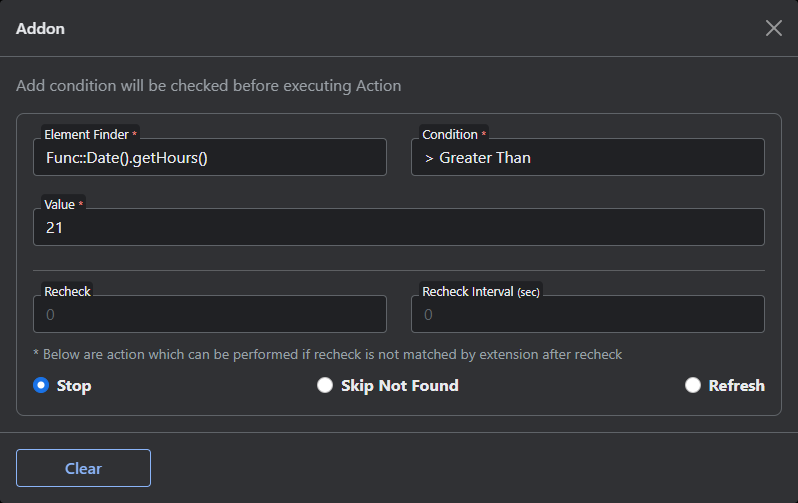
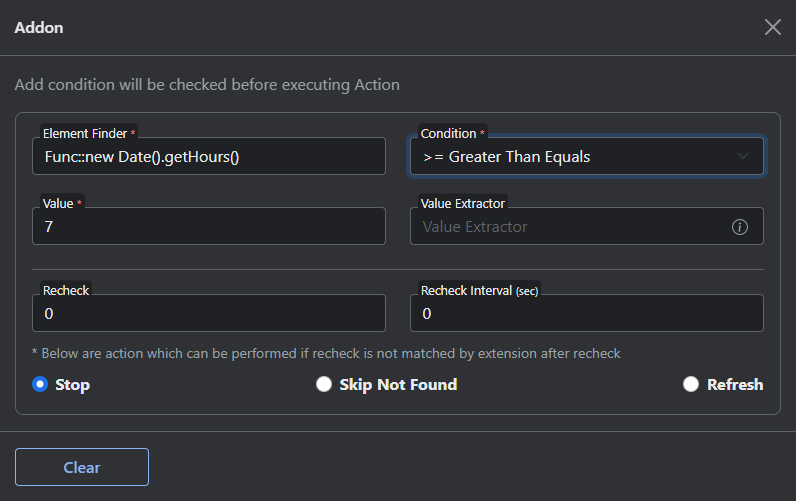
Added Action condition docs

diff --git a/content/docs/3.x/addon/element-finder.md b/content/docs/3.x/addon/element-finder.md
@@ -15,16 +15,44 @@ Follow below steps to get XPath quickly
 4. Thats it you have your XPath of that element now.
 {{</callout>}}
 
-### Check Time
-Now its possible you can check or compare with `date` and `time` and make the action work accordingly. All you have to do is instead of Element finder try adding `Func::Date().getHours()` to get the system current hour and it will be in 24 hours. now add condition greater than less than. which ever condition you want and in value field add hour. and under Recheck add SKIP if not matched.
+### Check browser default functions
+Now its possible you can check or compare with `date` and `time` and make the [Action]({{<docsref "/action/overview">}}) work accordingly. All you have to do is instead of Element finder try adding `Func::new Date().getHours()` to get the system current hour and it will be in 24 hours. now add condition greater than less than. which ever condition you want and in value field add hour. and under Recheck add SKIP if not matched.
 {{<img addon-func.png>}}
 
+<table class="table">
+  <thead>
+    <tr>
+      <th scope="col">Func::</th>
+      <th scope="col">Result</th>
+    </tr>
+  </thead>
+  <tbody>
+    <tr>
+      <th scope="col">new Date.getHours()</th>
+      <td>It will return current browser hours. There are other `Date` functions also reference link <a href="https://developer.mozilla.org/en-US/docs/Web/JavaScript/Reference/Global_Objects/Date" target="_blank" rel="noopener">Date</a></td>
+    </tr>
+    <tr>
+      <th scope="col">location.href</th>
+      <td>It will return current browser URL. There are other `location` functions also reference link <a href="https://developer.mozilla.org/en-US/docs/Web/API/Location" target="_blank" rel="noopener">Location</a></td>
+    </tr>
+    <tr>
+      <th scope="col">Other</td>
+      <td>Currently we have not tested all functions but will test and keep updating this list.</td>
+    </tr>
+  </tbody>
+</table>
+
+
 {{<callout info>}}
-There are other `Date` functions also which you can used other then `getHours()` reference link [Date](https://developer.mozilla.org/en-US/docs/Web/JavaScript/Reference/Global_Objects/Date)
+ This functionality is currently available at addon level only. Trying same feature for [Action]({{<docsref "/action/overview">}}) elementFinder will result in error.
 {{</callout>}}
 
 {{<callout danger>}}
- This functionality is currently available at addon level only. Trying same feature for action elementFinder will result in error.
+#### Func methods
+
+One important warning in advance: Malicious scripts can violate your privacy and act on your behalf!
+- You should create script own. for simpler functionality like calling a function and all.
+- If you not sure how to what all functions are available then You should only run scripts from sources you trust.
 {{</callout>}}
 
 ### Get Element By Id
@@ -52,7 +80,7 @@ Only single element get selected. If there are two element within page with same
 ### Get Elements By ClassName
 If an element tag is having `class="class-1 class-2 class-3"` attribute on it you can simply make use of `ClassName::class-1 class-2 class-3` to target that element.
 
-More than one element get selected. If there are two element within page with same class name both will be selected and action will be performed on both elements.
+More than one element get selected. If there are two element within page with same class name both will be selected and [Action]({{<docsref "/action/overview">}}) will be performed on both elements.
 
 {{<callout info>}}
  Referring below html section
@@ -74,7 +102,7 @@ More than one element get selected. If there are two element within page with sa
 ### Get Elements By Name
 If an element tag is having `name="nameOfElement"` attribute on it you can simply make use of `Name::nameOfElement` to target that element.
 
-More than one element get selected. If there are two element within page with same name both will be selected and action will be performed on both elements.
+More than one element get selected. If there are two element within page with same name both will be selected and [Action]({{<docsref "/action/overview">}}) will be performed on both elements.
 
 {{<callout info>}}
 Referring below html section
@@ -95,7 +123,7 @@ Referring below html section
 ### Get Elements By Tag Name
 To target specific elements by its tag name you can simply make use of `TagName::tagNameOfElement`.
 
-More than one element get selected. If there are two element within page with same tag name both will be selected and action will be performed on both elements.
+More than one element get selected. If there are two element within page with same tag name both will be selected and [Action]({{<docsref "/action/overview">}}) will be performed on both elements.
 
 {{<callout info>}}
 Referring below html section
@@ -120,7 +148,7 @@ Referring below html section
 ### Query Selector
 To target specific element by its different attributes you can simply make use of `querySelector::selectors`.
 
-Single element get selected. If there are two element within page with same selectors first will be selected and action will be performed on it.
+Single element get selected. If there are two element within page with same selectors first will be selected and [Action]({{<docsref "/action/overview">}}) will be performed on it.
 
 {{<callout info>}}
 Referring below html section
@@ -153,7 +181,7 @@ Its similar to query selector which selects all matching element rather than sel
 Xpath helps to track down and element using its document chain examples are below. 
 
 {{<callout warning>}}
-  Combine [batch-repeat]({{<docsref "/batch/repeat">}}) with xpath to iterate over elements one by one. e.g if Xpath of element is like table format and you need to iterate all its row one by one. `//table/tr[1]/td[1]/button` this xpath will select button of fist row. now replace it will `//table/tr[<batchRepeat>]/td[1]/button` and under batch repeat add value like 5 or 10 based on number of rows. Now when batch repeat all action one by one it will replace `<batchRepeat>` value with index from 1 to 10
+  Combine [batch-repeat]({{<docsref "/batch/repeat">}}) with xpath to iterate over elements one by one. e.g if Xpath of element is like table format and you need to iterate all its row one by one. `//table/tr[1]/td[1]/button` this xpath will select button of fist row. now replace it will `//table/tr[<batchRepeat>]/td[1]/button` and under batch repeat add value like 5 or 10 based on number of rows. Now when batch repeat all [Action]({{<docsref "/action/overview">}}) one by one it will replace `<batchRepeat>` value with index from 1 to 10
 {{</callout>}}
 
 

diff --git a/content/docs/3.x/action-condition/overview.md b/content/docs/3.x/action-condition/overview.md
@@ -1,0 +1,128 @@
+---
+layout: docs
+title: Action Condition
+description: Action condition are used to check status (`SKIPPED` or `DONE`) of previous executed actions and `Skip` or `Process` current Action
+group: action-condition
+toc: true
+---
+
+<span class="badge bg-danger">DEV</span>
+{{<img action-condition.png>}}
+
+{{<callout info>}}
+#### Action Condition 
+- Action condition are available from second [Action]({{<docsref "/action/overview">}}) only. As first [Action]({{<docsref "/action/overview">}}) do not have previous action status to check.
+- Action condition can check status of all previous action and not just immediate previous action status
+{{</callout>}}
+
+
+### Action Condition Modal
+
+Action Condition consist of two part [IF]({{<docsref "/action-condition/overview#if">}}) and [THEN]({{<docsref "/action-condition/overview#then">}})
+
+{{<img action-condition-modal.png>}}
+
+#### IF
+From name itself its clear that its the place where you configure your condition. you can add more than one condition with operator like `OR` and `AND` to it. It consist of three column. OPR (operator condition), Previous [Action]({{<docsref "/action/overview">}}) (whose status need to check), Status of previous action which need to be checked. And there is one more column which is to add or remove condition.
+
+Action column is used to select the action for which status need to be checked.
+
+Status column is simple which need to be check for that particular action. There are two status only for action which are `SKIPPED` or `DONE`. If by any condition on action if its skipped to next action its status is set as `SKIPPED` and if that action is completed successfully its status is set as `DONE`.
+
+If you have more than one condition you need to select OPR. OPR are either `OR` / `AND`. By default `AND` is selected. These operator result as below.
+
+<table class="table">
+  <thead>
+    <tr>
+      <th scope="col">Action 1 status result</th>
+      <th scope="col">OPR</th>
+      <th scope="col">Action 2 status result</th>
+      <th scope="col">result</th>
+    </tr>
+  </thead>
+  <tbody>
+    <tr>
+      <td class="text-success">true</td>
+      <td >OR</td>
+      <td class="text-success">true</td>
+      <th scope="row" class="text-success">true</th>
+    </tr>
+    <tr>
+      <td class="text-success">true</td>
+      <td>OR</td>
+      <td class="text-danger">false</td>
+      <th scope="row" class="text-success">true</th>
+    </tr>
+    <tr>
+      <td class="text-danger">false</td>
+      <td>OR</td>
+      <td class="text-success">true</td>
+      <th scope="row" class="text-success">true</th>
+    </tr>
+    <tr>
+      <td class="text-danger">false</td>
+      <td>OR</td>
+      <td class="text-danger">false</td>
+      <th scope="row" class="text-danger">false</th>
+    </tr>
+    <tr>
+      <td class="text-success">true</td>
+      <td >AND</td>
+      <td class="text-success">true</td>
+      <th scope="row" class="text-success">true</th>
+    </tr>
+    <tr>
+      <td class="text-success">true</td>
+      <td>AND</td>
+      <td class="text-danger">false</td>
+      <th scope="row" class="text-danger">false</th>
+    </tr>
+    <tr>
+      <td class="text-danger">false</td>
+      <td>AND</td>
+      <td class="text-success">true</td>
+      <th scope="row" class="text-danger">false</th>
+    </tr>
+    <tr>
+      <td class="text-danger">false</td>
+      <td>AND</td>
+      <td class="text-danger">false</td>
+      <th scope="row" class="text-danger">false</th>
+    </tr>
+  </tbody>
+</table>
+
+#### THEN
+This component is dependent on IF statement based on the final result of IF statement. Then has only two option to be selected `SKIP` / `PROCEED`. Below table show how it works.
+
+<table class="table">
+  <thead>
+    <tr>
+      <th scope="col">IF</th>
+      <th scope="col">THEN</th>
+      <th scope="col">result</th>
+    </tr>
+  </thead>
+  <tbody>
+    <tr>
+      <td class="text-success">true</td>
+      <td >SKIP</td>
+      <th scope="row">SKIP</th>
+    </tr>
+    <tr>
+      <td class="text-danger">false</td>
+      <td >SKIP</td>
+      <th scope="row">PROCEED</th>
+    </tr>
+     <tr>
+      <td class="text-success">true</td>
+      <td >PROCEED</td>
+      <th scope="row">PROCEED</th>
+    </tr>
+    <tr>
+      <td class="text-danger">false</td>
+      <td >PROCEED</td>
+      <th scope="row">SKIP</th>
+    </tr>
+  </tbody>
+</table>

diff --git a/content/docs/3.x/action/value.md b/content/docs/3.x/action/value.md
@@ -6,6 +6,21 @@ group: action
 toc: true
 ---
 
+
+## Func
+<span class="badge bg-danger">DEV</span>
+<span>Now run browser default API functions or custom func from extension directly. This feature is still under development and we will provide better location to run command from action. Run one or more than one command by separating them using `;` <br/>`Func::console.log("Hello");console.log("World");`</span>
+
+{{<img func-command.png>}}
+
+{{<callout danger>}}
+#### Func methods
+
+One important warning in advance: Malicious scripts can violate your privacy and act on your behalf!
+- You should create script own. for simpler functionality like calling a function and all.
+- If you not sure how to what all functions are available then You should only run scripts from sources you trust.
+{{</callout>}}
+
 ## Paste
 <span class="badge bg-danger">DEV</span>
 <span>Now you can paste content into input fields which are copied by extension.</span>

diff --git a/content/docs/3.x/action-settings/overview.md b/content/docs/3.x/action-settings/overview.md
@@ -1,6 +1,6 @@
 ---
 layout: docs
-title: Settings
+title: Action Settings
 description: Under settings screen you can control how and when should extension connect with your configured site,  also if any of xpath is not found how many retry attempt should be made, and fallback option if no element is found.
 group: action-settings
 toc: true

diff --git a/layouts/partials/callout-danger-func-methods.md b/layouts/partials/callout-danger-func-methods.md
@@ -1,0 +1,3 @@
+#### Func methods
+
+One important warning in advance: Malicious scripts can violate your privacy and act on your behalf! You should only run scripts from sources you trust.
